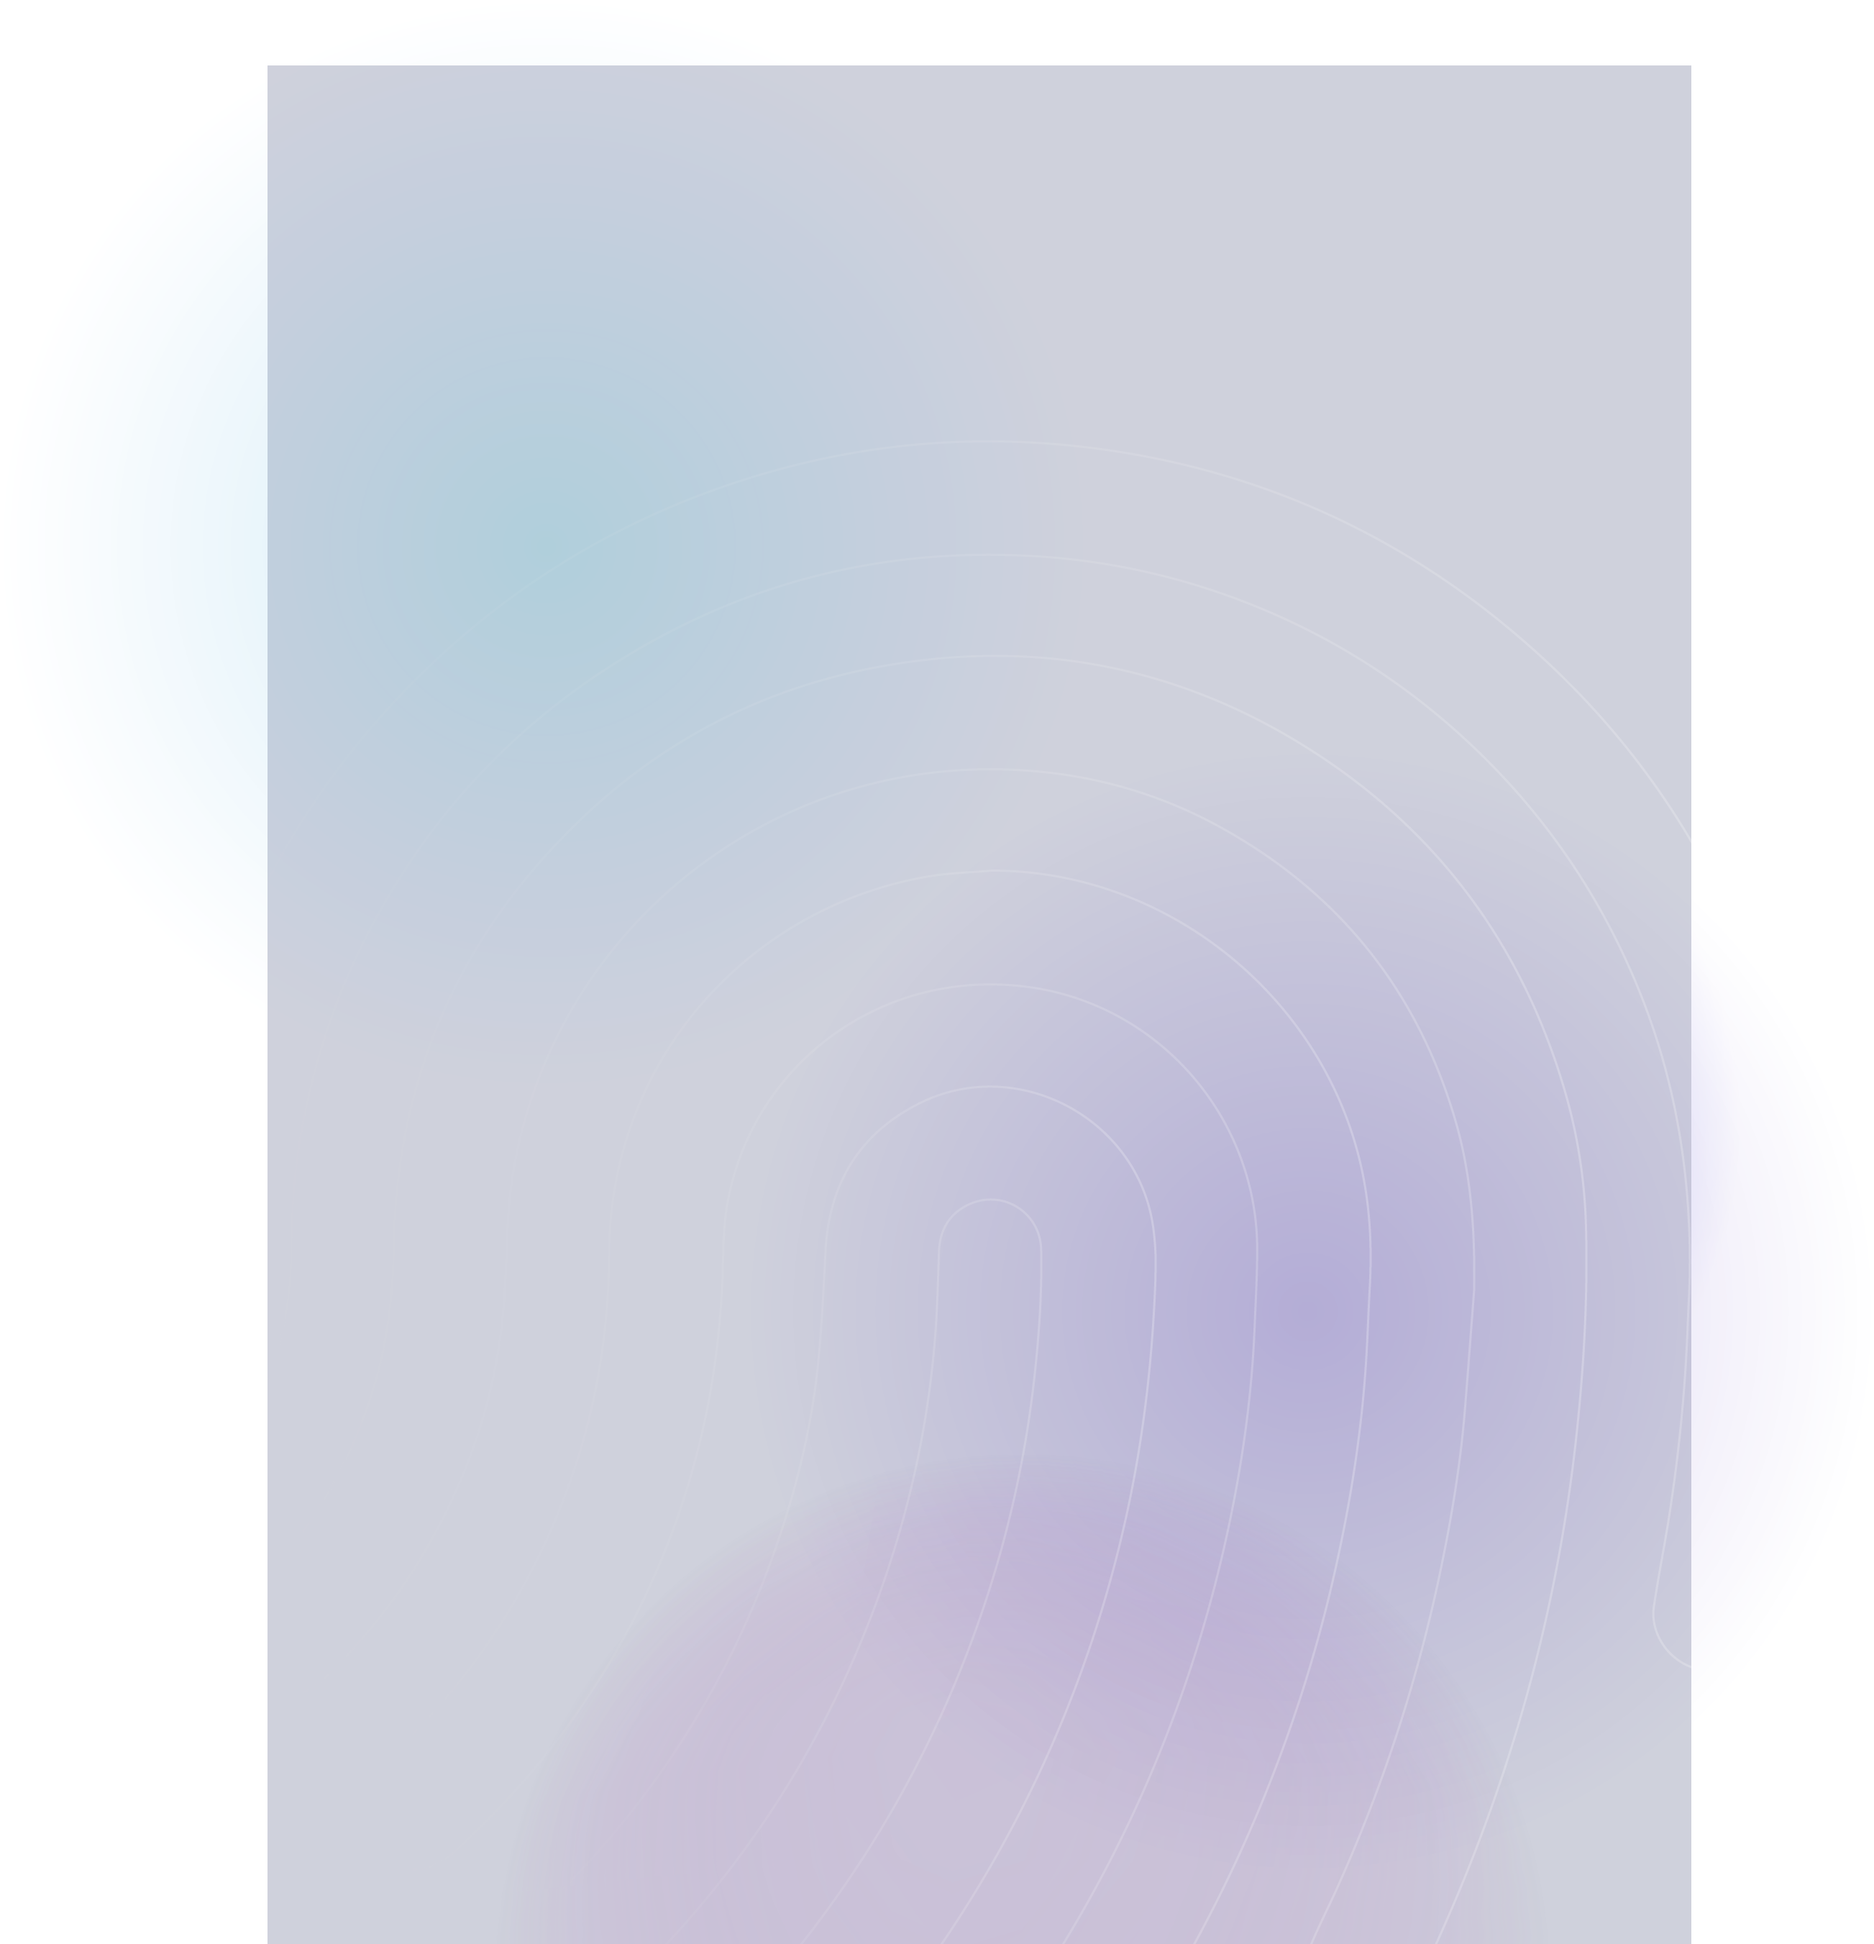
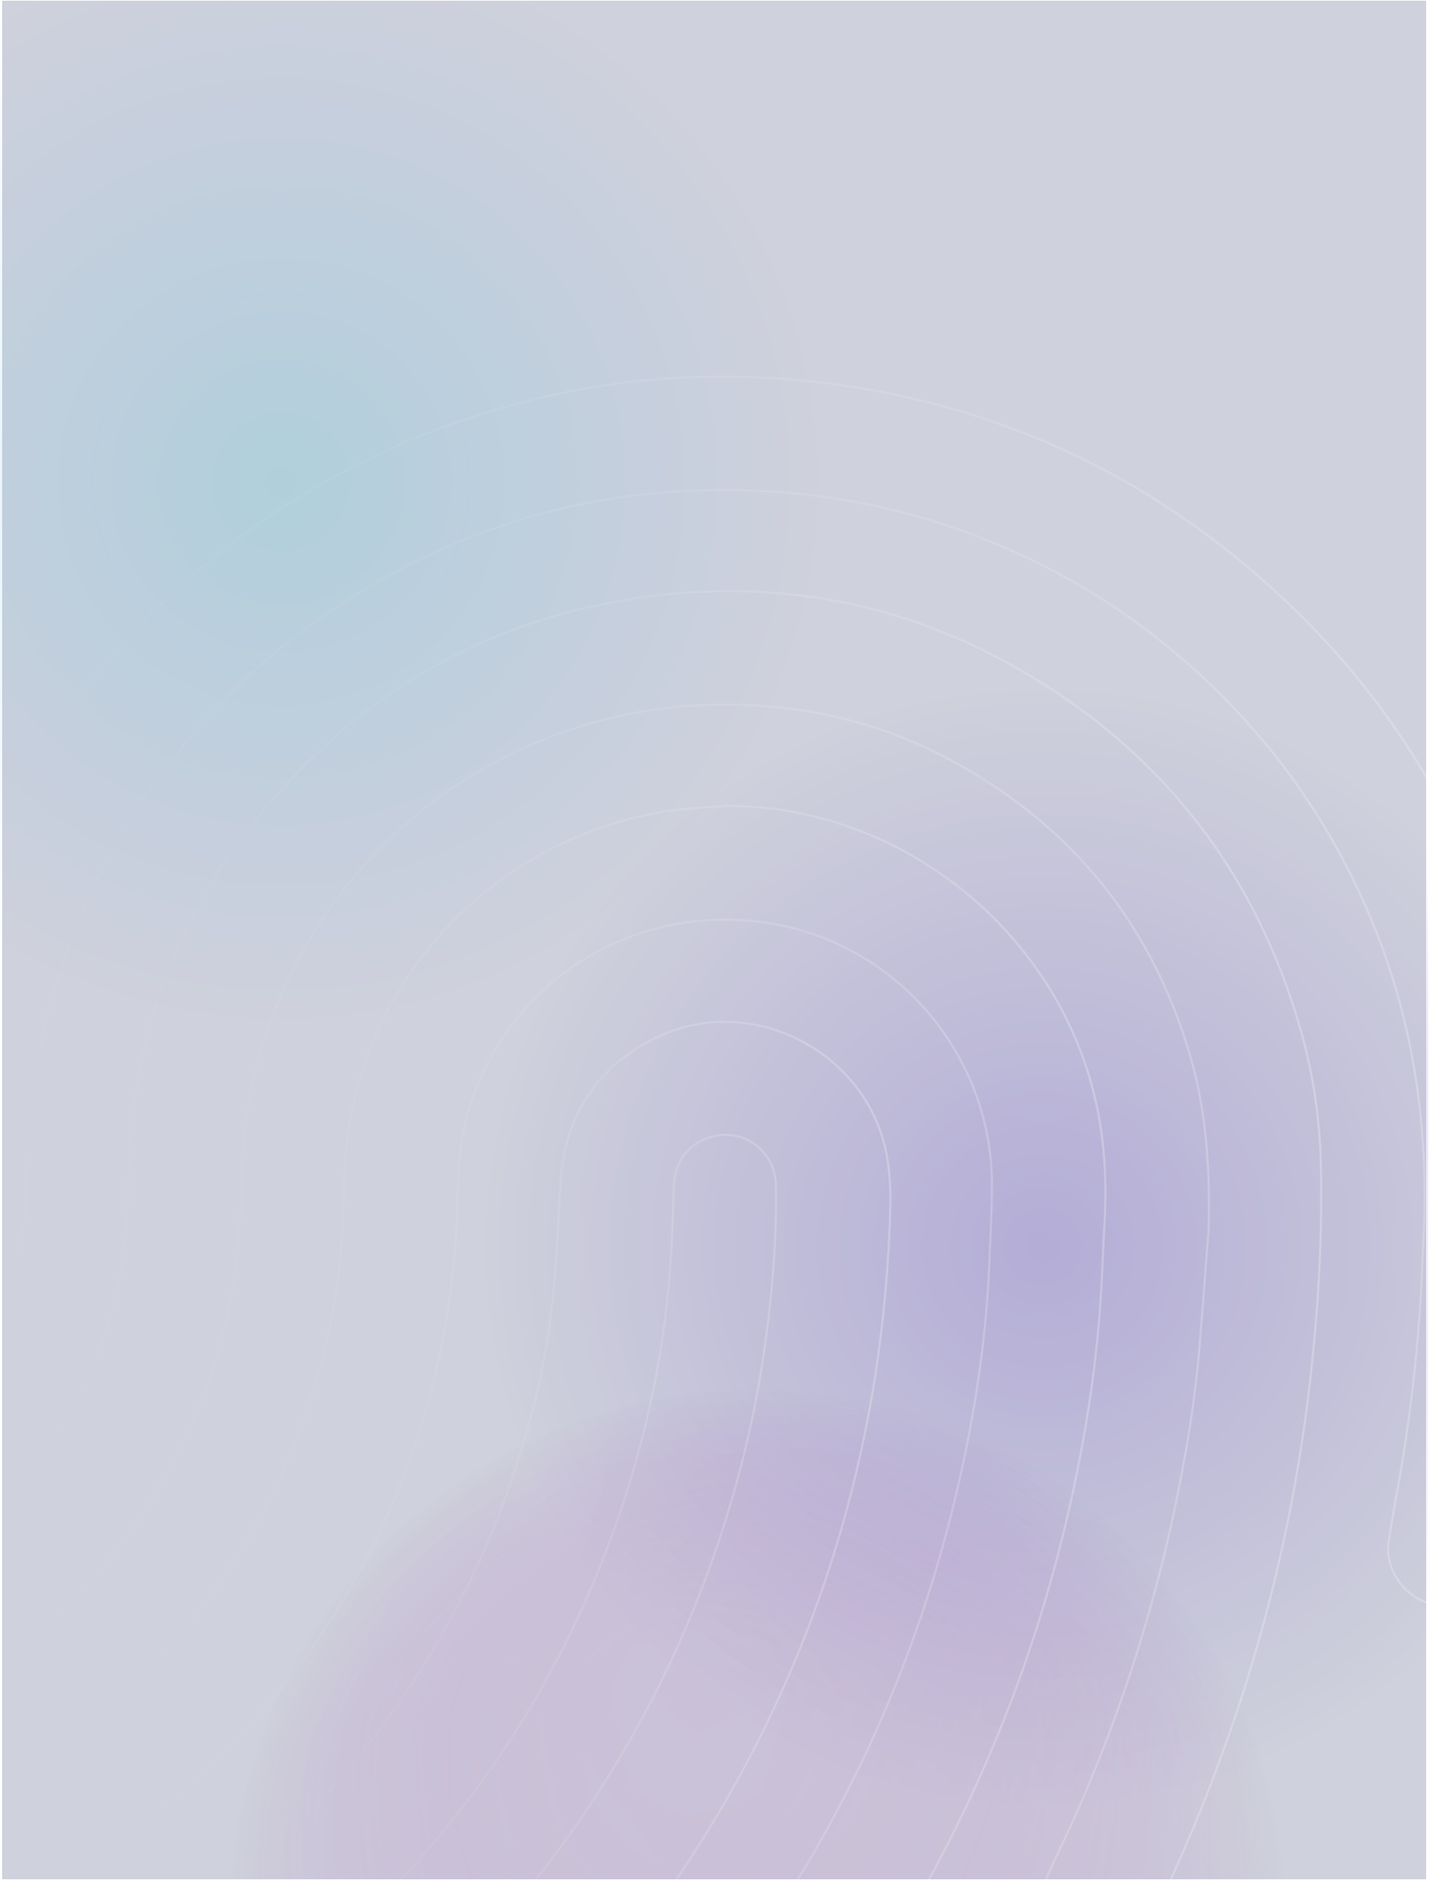
Responsive adjustments

Changed region(s): [[0.0, 0.0, 0.9985, 1.0]]

diff --git a/src/IdentityToken.UI.Common/wwwroot/styles/app.css b/src/IdentityToken.UI.Common/wwwroot/styles/app.css
@@ -3,8 +3,12 @@
 @tailwind utilities;
 
 
-body {
+html,body
+{
     width: 100%;
+    height: 100%;
+    margin: 0;
+    padding: 0;
     overflow-x: hidden;
 }
 
